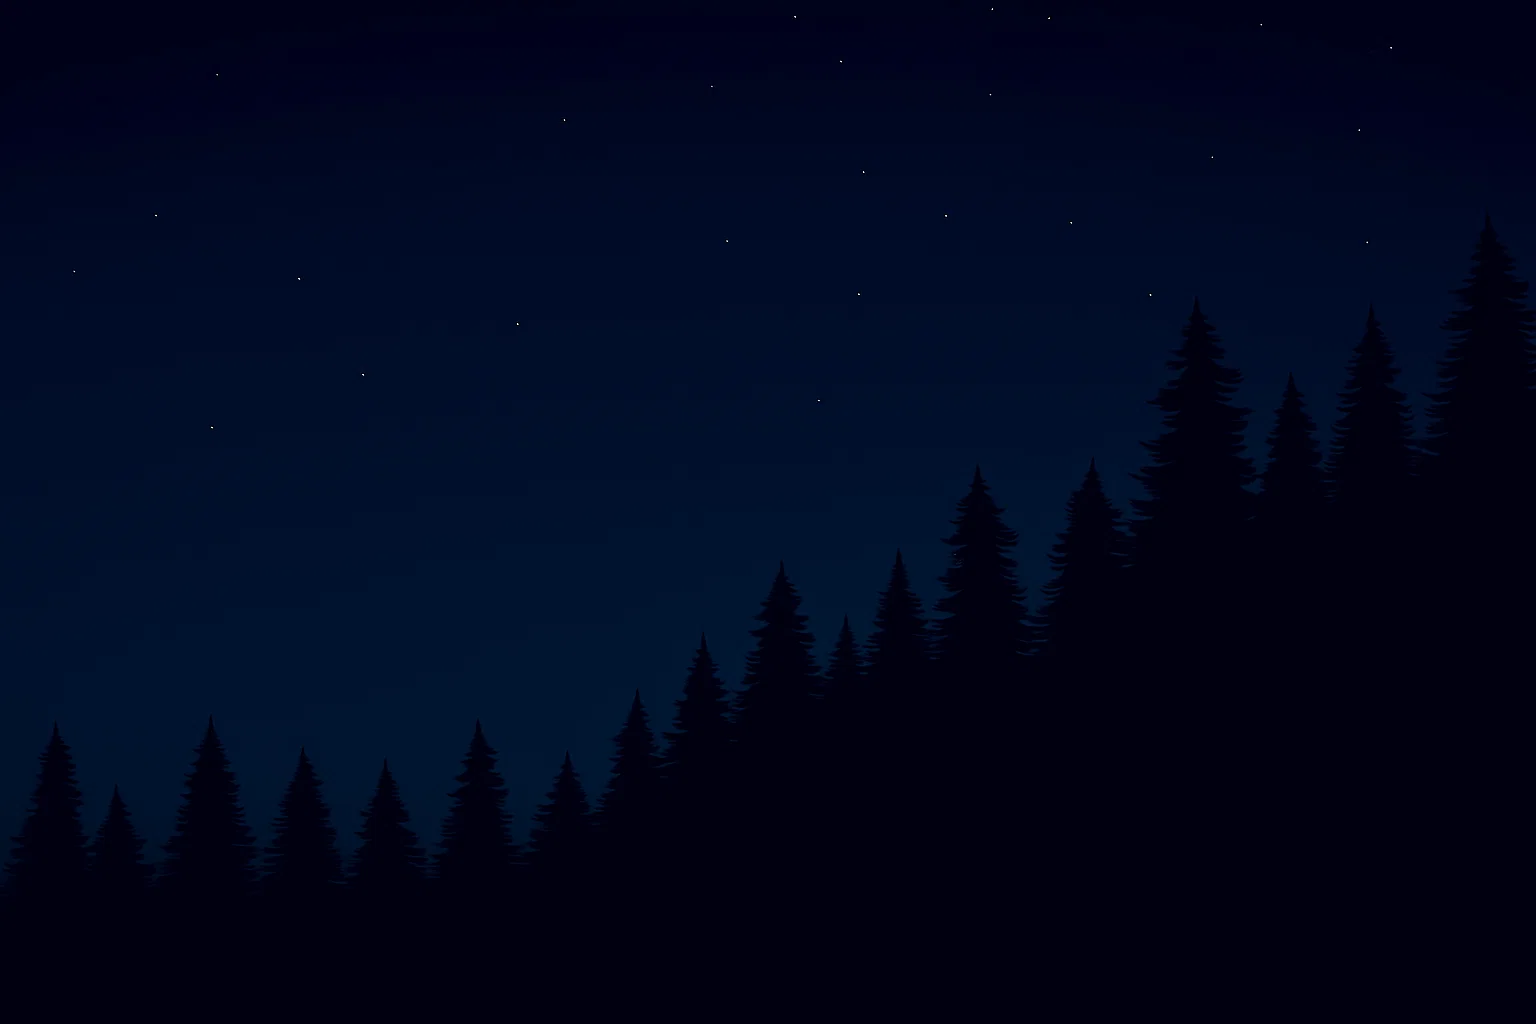
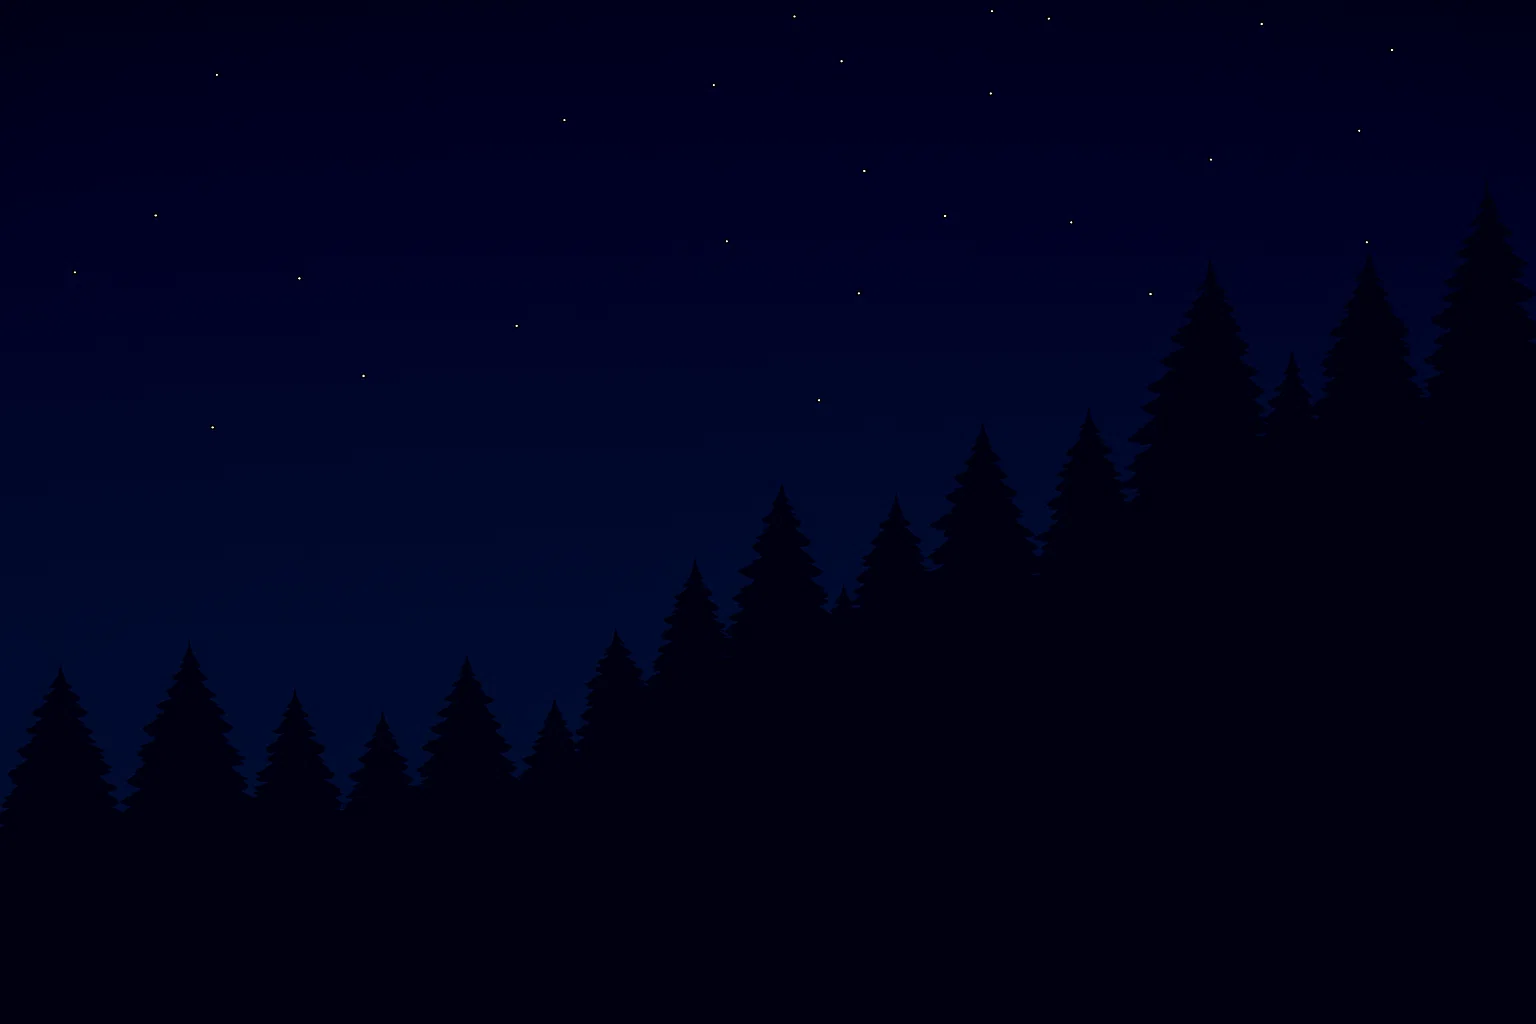
loader, minor fixes

diff --git a/portfolio/src/index.html b/portfolio/src/index.html
@@ -5,11 +5,45 @@
   <title>Web Dev / Pazdzior</title>
   <base href="/">
   <meta name="viewport" content="width=device-width, initial-scale=1">
+  <meta name="format-detection" content="telephone=no">
   <link rel="icon" type="image/x-icon" href="favicon.png">
   <link rel="stylesheet" type='text/css' href="https://cdn.jsdelivr.net/gh/devicons/devicon@latest/devicon.min.css" />
   <link href="https://api.fontshare.com/v2/css?f[]=switzer@1&display=swap" rel="stylesheet"> 
+  
+  <style>
+    #loader {
+    position: fixed;
+    inset: 0;
+    background: #010012;
+    display: flex;
+    justify-content: center;
+    align-items: center;
+    z-index: 99999;
+    transition: opacity 0.5s ease;
+  }
+  #loader.hidden {
+    opacity: 0;
+    pointer-events: none;
+  }
+  .spinner {
+    width: 70px;
+    height: 70px;
+    border: 6px solid rgba(255, 255, 255, 0.2);
+    border-top-color: #0395f7;
+    border-radius: 50%;
+    animation: spin 1s linear infinite;
+  }
+  @keyframes spin {
+    to { transform: rotate(360deg); }
+  }
+  </style>
 </head>
 <body>
+
+  <div id="loader">
+    <div class="spinner"></div>
+  </div>
+
   <app-root></app-root>
 </body>
 </html>

diff --git a/portfolio/src/app/core/components/gallery/gallery.component.html b/portfolio/src/app/core/components/gallery/gallery.component.html
@@ -56,10 +56,10 @@
         <div class="browser-result">
             
             @for(img of imgs; track $index) {
-                <img [src]="img" alt="" [class.active-img]="activeIndex === $index" class="pc-img">
+                <img [src]="img" alt="app showcase" [class.active-img]="activeIndex === $index" class="pc-img">
             }
             @for(img of imgsPhone; track $index) {
-                <img [src]="img" alt="" [class.active-phone]="activeIndex === $index" class="mobile-img">
+                <img [src]="img" alt="app showcase" [class.active-phone]="activeIndex === $index" class="mobile-img">
             }
             <p [class.active-p]="activeIndex == 0"><a>VISIT WEBSITE</a> <i class="bi bi-box-arrow-up-right"></i></p>
         </div>

diff --git a/portfolio/src/app/core/components/click-counter/click-counter.component.css b/portfolio/src/app/core/components/click-counter/click-counter.component.css
@@ -422,6 +422,7 @@ h5{
 
 
 @media (width <= 900px){
+  
   .clicker-area{
     flex-direction: column-reverse;
     
@@ -441,7 +442,8 @@ h5{
   }
   section{
     gap: 10px;    
-    padding: 30px 0;
+    padding: 80px 0 0px 0px;
+    
   }
   .whole-monitor{
     transform: scale(0.7);
@@ -454,6 +456,13 @@ h5{
   .title-area h5{
     font-size: 15px;
   }
+  .monitor .screen{
+    filter: none;
+  }
+  .monitor-glow{
+    animation: none;
+  }
+
 }
 @media (width > 1500px){
   .whole-monitor{
@@ -467,5 +476,9 @@ h5{
     left: 92%;
     width: 450px;
     height: 450px;
+  }
+  section{
+    gap: 150px;
+    padding-bottom: 175px;
   }
 }

diff --git a/portfolio/src/app/core/shared/footer/footer.component.css b/portfolio/src/app/core/shared/footer/footer.component.css
@@ -60,8 +60,7 @@ ul a:hover{
 
 ul h2{
     font-size: 18px;
-    color: #ffffff97;
-    filter: drop-shadow(0px 2px 10px #fff);
+    color: #ffffff54;
     font-weight: 900;
 }
 h2{
@@ -69,9 +68,6 @@ h2{
     justify-content: center;
     width: 125px;
     font-weight: 500;
-}
-#nav-ul h2{
-    justify-content: start;
 }
 #nav-ul{
     align-items: end;
@@ -129,6 +125,7 @@ footer .footer-bottom>a{
 }
 
 @media (width <= 900px){
+
     .content-wrapper{
         flex-direction: column;
         height: auto;

diff --git a/portfolio/src/app/core/components/contact/contact.component.css b/portfolio/src/app/core/components/contact/contact.component.css
@@ -306,8 +306,22 @@ transition: transform 0.2s ease;
     }
     .business-card{
         width: 90vw;
+        font-size: 11px;
         height: 225px;
         margin: 100px 0;
+    }
+    .business-card h2{
+        line-height: 20px;
+    }
+    .business-card .card-bottom{
+        padding-top: 10px;
+        font-size: 10px;
+    }
+    .business-card .card-bottom *{
+        font-size: 10px;
+    }
+    .line{
+        margin: 0px;
     }
     .submit-btn{
         width: 150px;

diff --git a/portfolio/src/app/core/components/click-counter/click-counter.component.html b/portfolio/src/app/core/components/click-counter/click-counter.component.html
@@ -11,7 +11,7 @@
             <div class="monitor">
                 <div class="screen">
                     <p class="screen-info">NO SIGNAL</p>
-                    <img src="/backgrounds/charts.webp" alt="">
+                    <img src="/backgrounds/charts.webp" alt="screen charts">
                     <div class="loading-bar-container" *ngIf="loading">
                         <div class="loading-bar" [style.width.%]="loadingProgress"></div>
                     </div>

diff --git a/portfolio/src/app/core/components/home/home.component.html b/portfolio/src/app/core/components/home/home.component.html
@@ -1,7 +1,7 @@
 <app-header></app-header>
 <section class="landing-page" id="home">
         
-        <img src="backgrounds/background-forest.webp" alt="background">
+        <img src="backgrounds/background-forest-3.webp" alt="background night sky with forest">
         <div class="landing-content">
              <h1 class="light-onload">WEB DEV / PAZDZIOR</h1>
              <p>{{'HOME.SUBTITLE' | translate}}</p>

diff --git a/portfolio/src/main.ts b/portfolio/src/main.ts
@@ -4,8 +4,12 @@ import { AppComponent } from './app/app.component';
 
 
 bootstrapApplication(AppComponent, appConfig)
-
-
-
-
   .catch((err) => console.error(err));
+
+  window.addEventListener('load', () => {
+  const loader = document.getElementById('loader');
+  if (loader) {
+    loader.classList.add('hidden');
+    setTimeout(() => loader.remove(), 600);
+  }
+});

diff --git a/portfolio/src/app/core/components/languages/languages.component.html b/portfolio/src/app/core/components/languages/languages.component.html
@@ -2,7 +2,7 @@
     <div class="img-area">
         <div class="img-wrapper">
             <div class="img-blur"></div>
-            <img src="images/image_me.jpg" alt="">
+            <img src="images/image_me.jpg" alt="author portrait in a suit">
         </div>
     </div>
     <div class="content-section">

diff --git a/portfolio/src/app/core/shared/header/header.component.css b/portfolio/src/app/core/shared/header/header.component.css
@@ -205,6 +205,7 @@ button.nav-login-scroll:hover{
 }
 }
 #translate-dropdown{
+  
   margin-left: auto;
   font-size: 22px;
   background-color: transparent;
@@ -212,4 +213,7 @@ button.nav-login-scroll:hover{
   border: 0;
   margin-right: 15px;
   
+}
+#translate-dropdown:focus{
+  outline: none;
 }

diff --git a/portfolio/src/app/core/components/contact/contact.component.html b/portfolio/src/app/core/components/contact/contact.component.html
@@ -52,5 +52,5 @@
         </div>
     </div>   
      
-    <img src="backgrounds/contact-bg-2.webp" alt="">
+    <img src="backgrounds/contact-bg-2.webp" alt="background night panorama full of stars">
 </section>

diff --git a/portfolio/src/styles.css b/portfolio/src/styles.css
@@ -193,3 +193,13 @@ h5{
     transform: scale(1.2);
   }
 }
+
+
+
+a[href^="tel"],
+a[href^="tel"]:link,
+a[href^="tel"]:visited {
+  color: inherit;
+  text-decoration: none; 
+  cursor: default;       
+}
